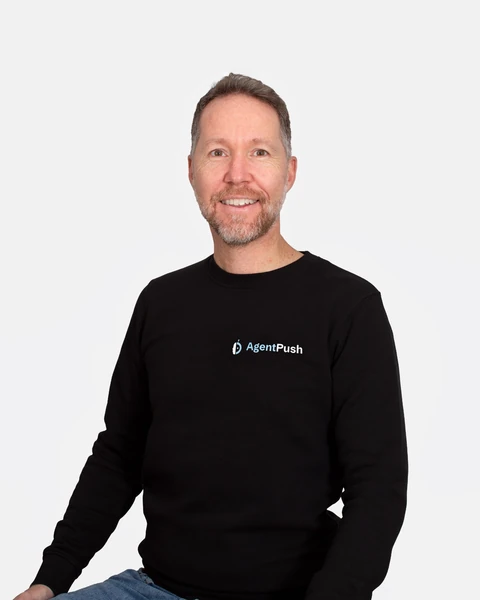
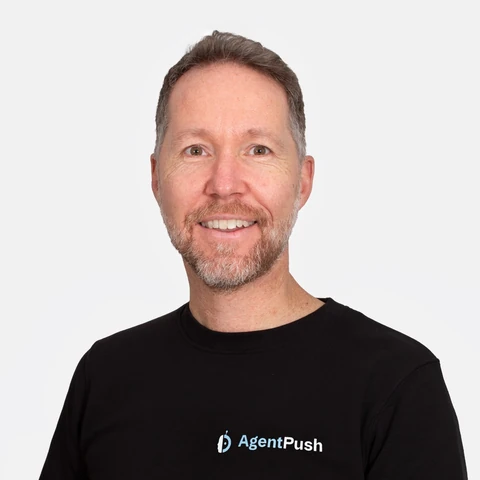
Maak het portret rond, op hoofd en schouders.
De cirkel houdt de lichte foto in beide standen. Het logo op de trui blijft net zichtbaar, de spijkerbroek valt weg. De rand is dezelfde dunne lijn als op de kaarten.

diff --git a/index.html b/index.html
@@ -691,7 +691,7 @@ svg.chart{width:100%;height:auto;display:block;max-width:100%}
 <section id="review"><div class="wrap rv"><div class="label md">Daarna · elke maand</div><h2 style="margin-top:14px"><span class="pn rw">AgentPush <em>Review</em></span></h2><p class="small">Elke maand: waar je staat, en of de uitvoering op koers ligt. Elke review heeft drie delen: de vaste hoofdstukken, wat je nu kunt doen, en of je strategie op koers ligt.</p><p class="koersnote">Koos je voor groei, verbreden, of klaarmaken voor verkoop: de review toetst maandelijks of die koers op schema ligt.</p><div class="tabs" role="tablist" style="margin-top:26px"><button role="tab" aria-selected="true" aria-controls="r0" id="rt0">September</button><button role="tab" aria-selected="false" aria-controls="r1" id="rt1">Oktober</button></div><div class="panel on" id="r0" role="tabpanel"><div class="blk"><div class="bh"><span>01</span>De vaste hoofdstukken</div><p class="bs">Elke maand dezelfde hoofdstukken, in dezelfde opbouw als je <a class="link" href="#viewer"><span class="pn pl">AgentPush Plan</span></a>. Hieronder een greep.</p><ul class="chap"><li><i class="dot a" aria-hidden="true"></i><b>Financieel</b><span>Omzet op plan, EBITDA 6,1% (plan 6,5%)</span></li><li><i class="dot g" aria-hidden="true"></i><b>Klanten, verkoop en website</b><span>Orderintake 8% hoger, website-aanvragen 12% hoger</span></li><li><i class="dot a" aria-hidden="true"></i><b>Markt en prijs</b><span>ComfortGroep 5% goedkoper op onderhoud</span></li><li><i class="dot a" aria-hidden="true"></i><b>Organisatie</b><span>60 fte, twee monteurs vertrokken</span></li></ul></div><div class="blk"><div class="bh"><span>02</span>Het hier en nu</div><h4>Wat verschoof sinds vorige maand</h4><ul class="ul2"><li>ComfortGroep verlaagt zijn onderhoudsprijs met 5%.</li><li>De factuurwaarde van product A neemt sneller af dan verwacht.</li><li>De inkoopprijzen van leverancier A stijgen.</li></ul><h4>Wat je nu kunt doen</h4><ul class="ul2 act"><li>Onderhoudsklanten bellen voordat ComfortGroep dat doet.</li><li>Leverancier A heronderhandelen vóór de verlenging.</li></ul></div><div class="blk koers"><div class="bh"><span>03</span>De strategische koers</div><div class="big2">9 van 14<small>initiatieven op koers</small></div><div class="sbar" role="img" aria-label="9 op koers, 3 aandacht, 2 achter"><i class="g" style="flex:9"></i><i class="a" style="flex:3"></i><i class="r" style="flex:2"></i></div><div class="sl"><span>9 op koers</span><span>3 aandacht</span><span>2 achter</span></div><div class="board short"><div class="bi"><div><b>Operationeel manager werven</b><span class="own">Directie</span></div><span class="st a">Aandacht</span><p>Profiel klaar, nog geen kandidaten.</p></div><div class="bi"><div><b>Prijsstap op onderhoud</b><span class="own">Verkoop</span></div><span class="st g">Op koers</span><p>Doorgevoerd bij 18 klanten.</p></div><div class="bi more"><div><b>Eén planningssysteem</b><span class="own">Operatie</span></div><span class="st r">Achter</span><p>Twee systemen draaien nog naast elkaar.</p></div><div class="bi more"><div><b>Eerste datacentercontract</b><span class="own">Verkoop</span></div><span class="st g">Op koers</span><p>Drie offertes uit, één gewonnen.</p></div></div><button class="showall" type="button" aria-expanded="false" data-n="2">Toon nog 2 initiatieven <span aria-hidden="true">↓</span></button></div></div><div class="panel" id="r1" role="tabpanel"><div class="blk"><div class="bh"><span>01</span>De vaste hoofdstukken</div><p class="bs">Elke maand dezelfde hoofdstukken, in dezelfde opbouw als je <a class="link" href="#viewer"><span class="pn pl">AgentPush Plan</span></a>. Hieronder een greep.</p><ul class="chap"><li><i class="dot g" aria-hidden="true"></i><b>Financieel</b><span>EBITDA 6,6% (plan 6,5%)</span></li><li><i class="dot g" aria-hidden="true"></i><b>Klanten, verkoop en website</b><span>Twee datacentercontracten getekend, conversie website 1,6%</span></li><li><i class="dot a" aria-hidden="true"></i><b>Markt en prijs</b><span>Klimaat Totaal biedt nu ook een onderhoudspakket</span></li><li><i class="dot g" aria-hidden="true"></i><b>Organisatie</b><span>Operationeel manager gestart</span></li></ul></div><div class="blk"><div class="bh"><span>02</span>Het hier en nu</div><h4>Wat verschoof sinds vorige maand</h4><ul class="ul2"><li>Het nieuwe contract met leverancier A dempt de prijsstijging.</li><li>Klimaat Totaal biedt nu ook een onderhoudspakket.</li><li>Datacenters vragen sneller dan het plan verwachtte.</li></ul><h4>Wat je nu kunt doen</h4><ul class="ul2 act"><li>Het onderhoudspakket aanscherpen voordat Klimaat Totaal klanten wint.</li><li>De oude planning uitzetten.</li></ul></div><div class="blk koers"><div class="bh"><span>03</span>De strategische koers</div><div class="big2">11 van 14<small>initiatieven op koers</small></div><div class="sbar" role="img" aria-label="11 op koers, 2 aandacht, 1 achter"><i class="g" style="flex:11"></i><i class="a" style="flex:2"></i><i class="r" style="flex:1"></i></div><div class="sl"><span>11 op koers</span><span>2 aandacht</span><span>1 achter</span></div><div class="board short"><div class="bi"><div><b>Operationeel manager werven</b><span class="own">Directie</span></div><span class="st g">Op koers</span><p>Aangesteld en gestart op 1 november.</p><span class="was">was: aandacht</span></div><div class="bi"><div><b>Prijsstap op onderhoud</b><span class="own">Verkoop</span></div><span class="st g">Op koers</span><p>Doorgevoerd bij 41 klanten.</p></div><div class="bi more"><div><b>Eén planningssysteem</b><span class="own">Operatie</span></div><span class="st a">Aandacht</span><p>Eén systeem is live, de oude planning loopt nog uit.</p><span class="was">was: achter</span></div><div class="bi more"><div><b>Eerste datacentercontract</b><span class="own">Verkoop</span></div><span class="st g">Op koers</span><p>Twee contracten getekend, een derde in onderhandeling.</p></div><div class="bi more"><div><b>Juridisch advies nieuwe organisatiestructuur</b><span class="own">Directie</span></div><span class="st g">Op koers</span><p>Advies binnen, de nieuwe structuur kan per januari in.</p></div></div><button class="showall" type="button" aria-expanded="false" data-n="3">Toon nog 3 initiatieven <span aria-hidden="true">↓</span></button></div></div><div class="revmore"><a class="btn" href="review.html">Bekijk een voorbeeld, 10 pagina's</a><p class="note3" style="margin:0">Voorbeeld, fictief installatiebedrijf met 14 initiatieven; hier een deel ervan. Een AgentPush Review voor een klant is gedetailleerder.</p></div></div></section>
 <section id="inrichting"><div class="wrap"><div class="label">In je eigen AI-tool</div><h2 style="margin-top:14px;max-width:24ch">AI-agents die je bedrijf kennen, in de AI-tool die je al gebruikt.</h2><p class="small">Wat erachter staat, richten we samen in: een datalake met je gegevens, veilig bij jou en met rechten die kloppen. Elke maand stelt AgentPush de AgentPush Review op.</p><div class="hubwrap"><svg class="hubd" viewBox="0 0 900 360" role="img" aria-label="Je systemen en marktgegevens stromen naar een datalake in jouw omgeving. Daar werkt je eigen AI-tool op. Jij en je MT stellen er zelf vragen aan; AgentPush stelt er elke maand de AgentPush Review uit op."><rect class="src" x="1" y="6" width="150" height="34" rx="4"/><text class="src-t" x="76" y="27.5" text-anchor="middle">Boekhouding</text><rect class="src" x="1" y="54" width="150" height="34" rx="4"/><text class="src-t" x="76" y="75.5" text-anchor="middle">CRM en offertes</text><rect class="src" x="1" y="102" width="150" height="34" rx="4"/><text class="src-t" x="76" y="123.5" text-anchor="middle">Website en analytics</text><rect class="src" x="1" y="150" width="150" height="34" rx="4"/><text class="src-t" x="76" y="171.5" text-anchor="middle">Planning of ERP</text><rect class="src" x="1" y="198" width="150" height="34" rx="4"/><text class="src-t" x="76" y="219.5" text-anchor="middle">Contracten</text><rect class="src" x="1" y="246" width="150" height="34" rx="4"/><text class="src-t" x="76" y="267.5" text-anchor="middle">Bank</text><rect class="src" x="1" y="294" width="150" height="34" rx="4"/><text class="src-t" x="76" y="315.5" text-anchor="middle">Markt en prijzen</text><path class="ln" id="p0" d="M151 23C235 23 235 170 320 170"/><path class="ln" id="p1" d="M151 71C235 71 235 170 320 170"/><path class="ln" id="p2" d="M151 119C235 119 235 170 320 170"/><path class="ln" id="p3" d="M151 167C235 167 235 170 320 170"/><path class="ln" id="p4" d="M151 215C235 215 235 170 320 170"/><path class="ln" id="p5" d="M151 263C235 263 235 170 320 170"/><path class="ln" id="p6" d="M151 311C235 311 235 170 320 170"/><path class="ln" id="ph" d="M470 170H550"/><path class="ln" id="po0" d="M770 85C735 85 735 170 700 170"/><path class="ln" id="po1" d="M770 170C735 170 735 170 700 170"/><path class="ln" id="po2" d="M700 170C735 170 735 255 770 255"/><rect class="core" x="320" y="122" width="150" height="96" rx="6"/><text class="core-t" x="395" y="168" text-anchor="middle">Datalake</text><text class="core-s" x="395" y="192" text-anchor="middle">veilig, bij jou</text><rect class="cl" x="550" y="122" width="150" height="96" rx="6"/><text class="cl-t" x="625" y="164" text-anchor="middle">Je eigen</text><text class="cl-t" x="625" y="185" text-anchor="middle">AI-tool</text><text class="cl-s" x="625" y="206" text-anchor="middle">naar keuze</text><rect class="out" x="770" y="58" width="129" height="54" rx="4"/><text class="out-t" x="834" y="82" text-anchor="middle">Jij</text><text class="out-s" x="834" y="100" text-anchor="middle">vraagt zelf</text><rect class="out" x="770" y="143" width="129" height="54" rx="4"/><text class="out-t" x="834" y="167" text-anchor="middle">Je MT</text><text class="out-s" x="834" y="185" text-anchor="middle">vraagt zelf</text><rect class="out rv" x="770" y="228" width="129" height="54" rx="4"/><text class="out-t" x="834" y="252" text-anchor="middle">Review</text><text class="out-s" x="834" y="270" text-anchor="middle">door AgentPush</text><circle class="pulse" r="4.5"><animateMotion dur="3.0s" begin="0.0s" repeatCount="indefinite" calcMode="linear"><mpath href="#p0"/></animateMotion></circle><circle class="pulse" r="4.5"><animateMotion dur="3.4s" begin="0.45s" repeatCount="indefinite" calcMode="linear"><mpath href="#p1"/></animateMotion></circle><circle class="pulse" r="4.5"><animateMotion dur="3.8s" begin="0.9s" repeatCount="indefinite" calcMode="linear"><mpath href="#p2"/></animateMotion></circle><circle class="pulse" r="4.5"><animateMotion dur="3.0s" begin="1.35s" repeatCount="indefinite" calcMode="linear"><mpath href="#p3"/></animateMotion></circle><circle class="pulse" r="4.5"><animateMotion dur="3.4s" begin="1.8s" repeatCount="indefinite" calcMode="linear"><mpath href="#p4"/></animateMotion></circle><circle class="pulse" r="4.5"><animateMotion dur="3.8s" begin="0.0s" repeatCount="indefinite" calcMode="linear"><mpath href="#p5"/></animateMotion></circle><circle class="pulse" r="4.5"><animateMotion dur="3.0s" begin="0.45s" repeatCount="indefinite" calcMode="linear"><mpath href="#p6"/></animateMotion></circle><circle class="pulse" r="4.5"><animateMotion dur="3.4s" begin="0.9s" repeatCount="indefinite" calcMode="linear"><mpath href="#ph"/></animateMotion></circle><circle class="pulse" r="4.5"><animateMotion dur="3.8s" begin="1.35s" repeatCount="indefinite" calcMode="linear"><mpath href="#po2"/></animateMotion></circle><circle class="ask" r="5"><animateMotion dur="2.6s" begin="0.0s" repeatCount="indefinite" calcMode="linear"><mpath href="#po0"/></animateMotion></circle><circle class="ask" r="5"><animateMotion dur="2.6s" begin="0.9s" repeatCount="indefinite" calcMode="linear"><mpath href="#po1"/></animateMotion></circle><g class="lg"><circle class="pulse" cx="560" cy="300" r="4.5"/><text x="572" y="305">gegevens</text><circle class="ask" cx="660" cy="300" r="5"/><text x="672" y="305">vragen</text></g></svg><div class="hubm2" aria-hidden="true"><div class="m-src"><b>Je systemen</b><span>Boekhouding, CRM, website, planning, contracten, bank, markt en prijzen</span></div><i class="m-ar">↓</i><div class="m-core"><b>Datalake</b><span>veilig, bij jou</span></div><i class="m-ar">↓</i><div class="m-ai"><b>Je eigen AI-tool</b><span>naar keuze</span></div><i class="m-ar">↓</i><div class="m-out"><div><b>Jij en je MT</b><span>vragen zelf</span></div><div class="rv"><b><span class="pn rw">AgentPush <em>Review</em></span></b><span>elke maand</span></div></div></div></div><div class="whoask" aria-label="Twee manieren van vragen"><div><b>Jij</b><p>Je stelt als directeur zelf je vragen: één assistent in je eigen AI-tool.</p></div><div><b>MT</b><p>Je managers werken ieder met hun eigen agents. Iedereen ziet alleen wat bij zijn rol hoort.</p></div></div><p class="pick"><a class="link" href="meer.html#team">Lees meer over de agents →</a></p><div class="three"><div><b>Rechten volgen de bron.</b> Wat iemand in je systemen niet mag zien, ziet zijn AI-tool ook niet.</div><div><b>Jij of je CFO beslist.</b> Die wijst aan wie wat mag; je beheerder stelt het in.</div><div><b>Alles blijft van jou.</b> AgentPush is gast in je account. Intrekken kan altijd.</div></div></div></section>
 <section class="flowsec" id="werkwijze"><div class="wrap"><div class="label">Zo werkt het</div><h2 style="margin-top:14px;max-width:34ch">Zes weken tot het <span class="pn pl">AgentPush <em>Plan</em></span>. Daarna de <span class="pn rw">AgentPush <em>Review</em></span>. <span class="pn rn">AgentPush <em>Run</em></span> op aanvraag.</h2><div id="prijs"><div class="phases" aria-hidden="true"><span class="free">Gratis</span><span class="fix"><span class="pn pl">AgentPush <em>Plan</em></span> · vanaf €7.500</span><span class="mod"><span class="pn rw">AgentPush <em>Review</em></span> · vanaf €1.500 p.m.</span><span class="run"><span class="pn rn">AgentPush <em>Run</em></span> · op aanvraag</span></div><ol class="flow"><li class="free"><span class="ph">Gratis</span><span class="lab">Kennismaking</span><span class="head"><span class="solo">Een gesprek</span></span><p>Jij vertelt waar je wilt versnellen.</p><details><summary>Meer</summary><ul><li>Een uur, Teams of langs</li><li>Of het past, en de prijs</li></ul><a class="link" href="https://bookings.cloud.microsoft/bookwithme/user/dcf66db64606486d89dabb31884b82f6@agentpush.nl/meetingtype/3plQGqCASkWoKavLUwbhTA2?anonymous" target="_blank" rel="noopener">Plan een gesprek</a></details></li><li class="fix"><span class="ph"><span class="pn pl">AgentPush <em>Plan</em></span> · vanaf €7.500</span><span class="lab"><span>Week 1–4</span><span>Inrichten en doorlichten</span></span><span class="head"><b class="prod"><span class="pn pl">AgentPush</span><span class="pn pl">Plan</span></b></span><p>Eerst de AI-tool en de gegevens, daarna een eerste analyse van het hier en nu.</p><details><summary>Meer</summary><ul><li>AI-account op jouw naam</li><li>Koppelingen die alleen lezen</li><li>Binnen vier werkdagen een beeld</li></ul><a class="link" href="meer.html#gegevens">Meer weten</a></details></li><li class="fix"><span class="ph"><span class="pn pl">AgentPush <em>Plan</em></span> · vanaf €7.500</span><span class="lab"><span>Week 5–6</span><span>Kiezen</span></span><span class="head"><b class="prod"><span class="pn pl">AgentPush</span><span class="pn pl">Plan</span></b></span><p>Strategische keuzes, vastgelegd in het plan. Het traject duurt zes weken.</p><details><summary>Meer</summary><ul><li>Strategieën naast elkaar</li><li>Prijs, financieel, organisatie</li><li>Scripts om zelf verder te gaan</li></ul><a class="link" href="plan.html#h4">Meer weten</a></details></li><li class="mod"><span class="ph"><span class="pn rw">AgentPush <em>Review</em></span> · vanaf €1.500 p.m.</span><span class="lab">Daarna</span><span class="head"><b class="prod"><span class="pn rw">AgentPush</span><span class="pn rw">Review</span></b></span><p>Wanneer jij hem nodig hebt, met een vaste maandelijkse hartslag.</p><details><summary>Meer</summary><ul><li>Na de maandafsluiting</li><li>Zelf, of samen besproken</li><li>Per maand of per review</li></ul><a class="link" href="meer.html#review">Meer weten</a></details></li><li class="run"><span class="ph"><span class="pn rn">AgentPush <em>Run</em></span> · op aanvraag</span><span class="lab">Op aanvraag</span><span class="head"><b class="prod"><span class="pn rn">AgentPush</span><span class="pn rn">Run</span></b></span><p>Agents die in jouw systemen mee uitvoeren, naast je mensen.</p><details><summary>Meer</summary><ul><li>A/B-tests en de website</li><li>Klachten en contractopzegging</li><li>Commerciële opvolging, na akkoord</li></ul><a class="link" href="meer.html#run">Meer weten</a></details></li></ol><p class="fnote2">Prijzen exclusief btw en AI-toolgebruik; de uiteindelijke prijs stemmen we af tijdens de kennismaking. <a class="link" href="meer.html#prijs">Meer over prijs</a></p></div></div></section>
-<section id="bob"><div class="wrap bob"><div class="photo"><picture class="on-light"><source type="image/webp" srcset="assets/bob-licht-480.webp 480w, assets/bob-licht-800.webp 800w, assets/bob-licht-1200.webp 1200w" sizes="(max-width:640px) 220px, (max-width:860px) 240px, 360px"><img src="assets/bob-licht-800.jpg" srcset="assets/bob-licht-480.jpg 480w, assets/bob-licht-800.jpg 800w, assets/bob-licht-1200.jpg 1200w" sizes="(max-width:640px) 220px, (max-width:860px) 240px, 360px" alt="Bob van Bokhoven, oprichter van AgentPush" width="800" height="1000" loading="lazy" decoding="async"></picture></div><div><div class="label">Over AgentPush</div><h2 style="margin-top:14px">Opgericht door Bob van Bokhoven</h2><div class="role">Commerciële finance, pricing en strategische herpositionering</div><p class="t">Meer dan twintig jaar stuur ik op het punt waar propositie, prijs, verkoop en cijfers samenkomen: bij verschillende grote corporates en in strategische herpositionering in het MKB.</p><p class="t">Het werken met agents begon voor mij in 2025, toen ik samen met Claude, ChatGPT, Gemini en Grok een protocol voor agents bouwde. Die kennis van het opzetten van agents, samen met mijn ervaring als consultant, leidde tot AgentPush.</p><p class="t">Ik richt het in, waarna AI het slimme werk doet. De keuze voor je strategie maak jij; ik help je daarbij, en samen spreken we af hoe we de voortgang meten.</p><div class="links"><a class="link" href="https://www.linkedin.com/in/bobvanbokhoven/" target="_blank" rel="noopener">LinkedIn</a></div></div></div></section>
+<section id="bob"><div class="wrap bob"><div class="photo"><picture class="on-light"><source type="image/webp" srcset="assets/bob-licht-480.webp 480w, assets/bob-licht-800.webp 800w, assets/bob-licht-1200.webp 1200w" sizes="(max-width:860px) 200px, 280px"><img src="assets/bob-licht-800.jpg" srcset="assets/bob-licht-480.jpg 480w, assets/bob-licht-800.jpg 800w, assets/bob-licht-1200.jpg 1200w" sizes="(max-width:860px) 200px, 280px" alt="Bob van Bokhoven, oprichter van AgentPush" width="800" height="800" loading="lazy" decoding="async"></picture></div><div><div class="label">Over AgentPush</div><h2 style="margin-top:14px">Opgericht door Bob van Bokhoven</h2><div class="role">Commerciële finance, pricing en strategische herpositionering</div><p class="t">Meer dan twintig jaar stuur ik op het punt waar propositie, prijs, verkoop en cijfers samenkomen: bij verschillende grote corporates en in strategische herpositionering in het MKB.</p><p class="t">Het werken met agents begon voor mij in 2025, toen ik samen met Claude, ChatGPT, Gemini en Grok een protocol voor agents bouwde. Die kennis van het opzetten van agents, samen met mijn ervaring als consultant, leidde tot AgentPush.</p><p class="t">Ik richt het in, waarna AI het slimme werk doet. De keuze voor je strategie maak jij; ik help je daarbij, en samen spreken we af hoe we de voortgang meten.</p><div class="links"><a class="link" href="https://www.linkedin.com/in/bobvanbokhoven/" target="_blank" rel="noopener">LinkedIn</a></div></div></div></section>
 <section class="call" id="gesprek"><div class="wrap"><div><h2>Eén gesprek. Jij vertelt waar je wilt versnellen.</h2><p>30 minuten, gratis, via Microsoft Teams.</p></div><div class="bookbox"><a class="btn book" href="https://bookings.cloud.microsoft/bookwithme/user/dcf66db64606486d89dabb31884b82f6@agentpush.nl/meetingtype/3plQGqCASkWoKavLUwbhTA2?anonymous" target="_blank" rel="noopener">Plan direct een kennismakingsgesprek</a><p class="alt">Liever eerst even mailen of bellen?<span class="reach"><a href="mailto:bob@agentpush.nl">bob@agentpush.nl</a><a href="tel:+31646080020">06 46 08 00 20</a><a href="https://wa.me/31646080020" target="_blank" rel="noopener">WhatsApp</a></span></p></div></div></section>
 </main>
 <footer><div class="wrap"><span>© 2026 AgentPush · agentpush.nl</span><span>AgentPush is een handelsnaam van HumAgent B.V. · KvK 42222476</span><span><a href="meer.html">Meer weten</a> · <a href="privacy.html">Privacy</a> · Verwerkersovereenkomst op aanvraag</span></div></footer>
@@ -797,9 +797,9 @@ bs.forEach(function(b){b.addEventListener('click',function(){sel(b.dataset.k)})}
 :root[data-theme="light"] .brand .mark.on-light{display:block}
 :root[data-theme="light"] .brand .mark.on-dark{display:none}
 </style><style id="bob-photo">
-.bob .photo{position:relative;aspect-ratio:4/5;width:100%;max-width:100%;height:auto;background:transparent;border:1px solid var(--line);border-radius:12px;overflow:hidden;display:block;justify-self:start}
+.bob .photo{position:relative;width:280px;max-width:100%;aspect-ratio:1/1;height:auto;background:transparent;border:1px solid var(--line);border-radius:50%;overflow:hidden;display:block;justify-self:start}
 .bob .photo picture{position:absolute;inset:0}
-.bob .photo img{width:100%;height:100%;object-fit:cover;object-position:center 18%;display:block}
-@media (max-width:860px){.bob .photo{max-width:240px}}
-@media (max-width:640px){.bob .photo{width:min(220px,62vw)!important;max-width:220px;height:auto!important;aspect-ratio:4/5!important;min-height:0!important}}
+.bob .photo img{width:100%;height:100%;object-fit:cover;object-position:center;display:block}
+@media (max-width:860px){.bob .photo{width:220px}}
+@media (max-width:640px){.bob .photo{width:min(200px,56vw)!important;max-width:200px;height:auto!important;aspect-ratio:1/1!important;min-height:0!important;border-radius:50%!important}}
 </style><script data-goatcounter="https://agentpush.goatcounter.com/count" async src="//gc.zgo.at/count.js"></script></body></html>
